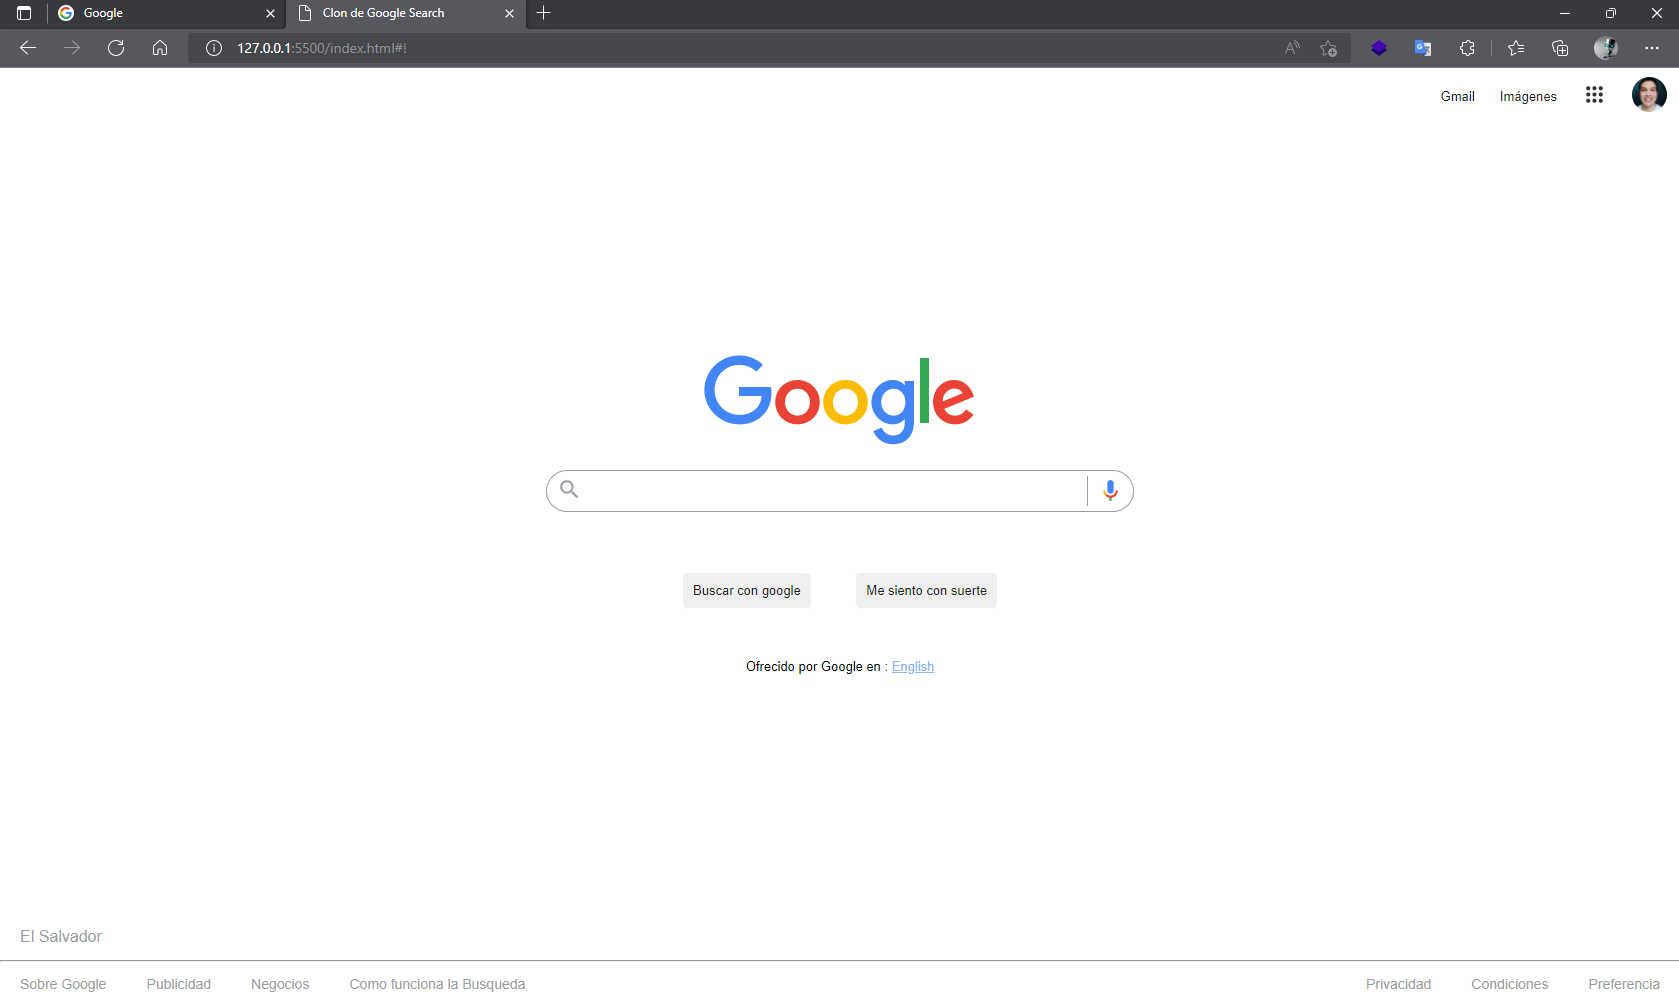
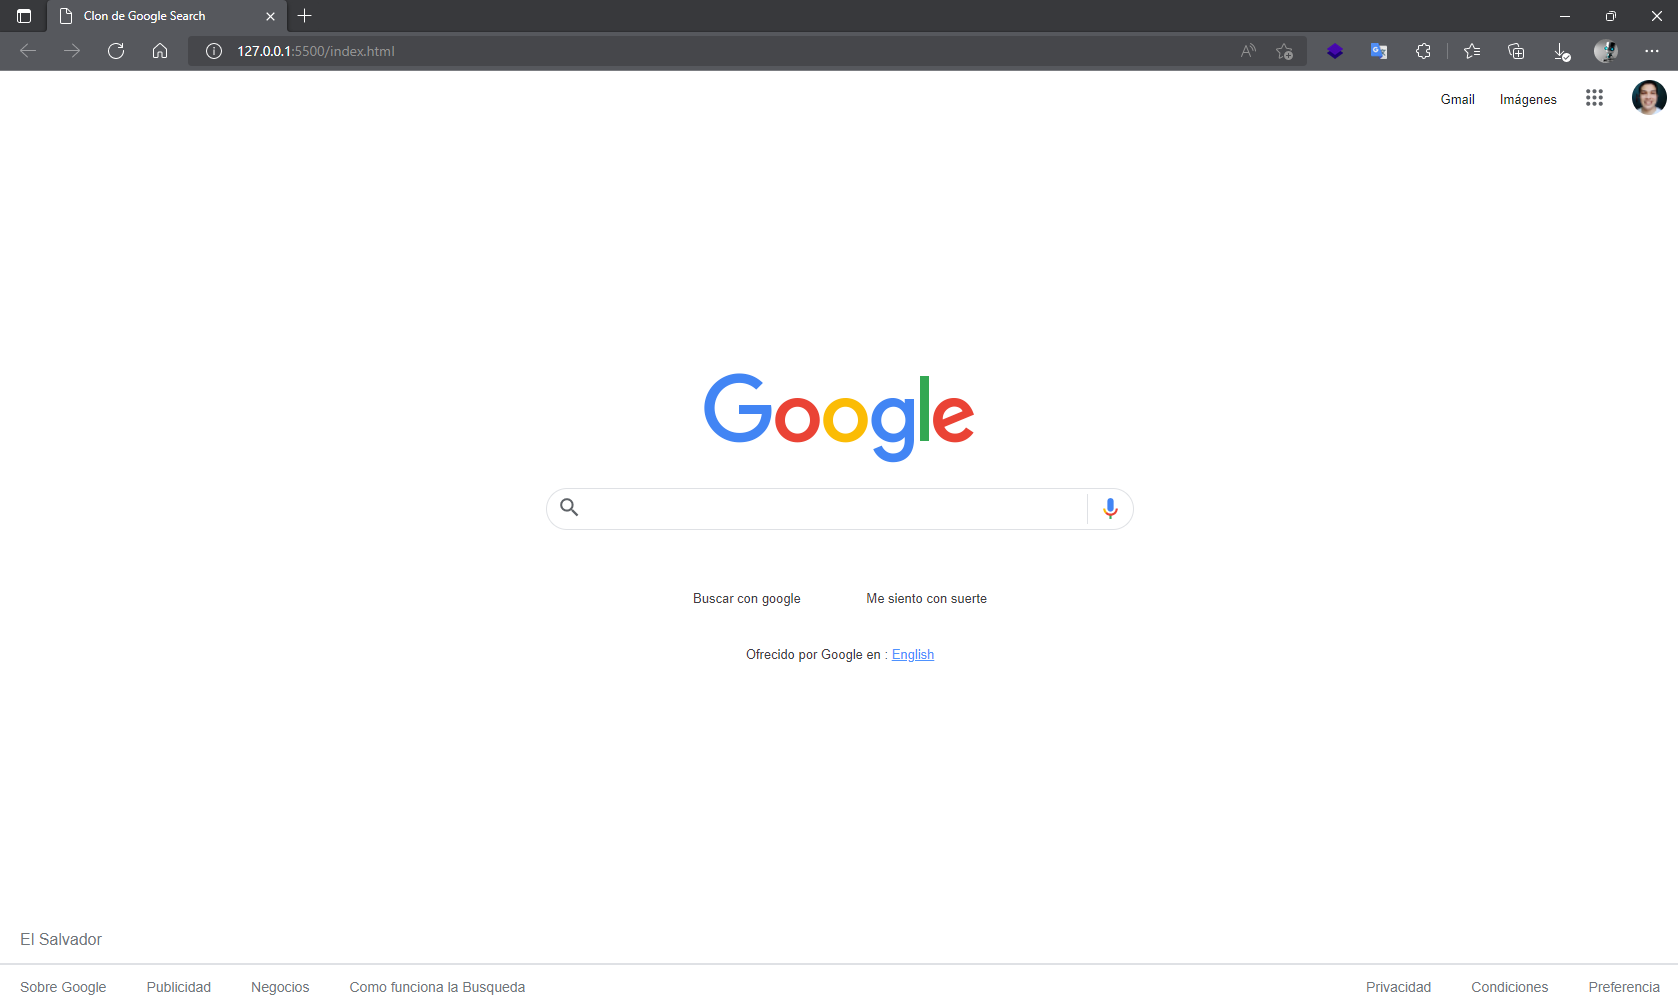
[ADD] se agrega la funcionalidad DarkMode

diff --git a/styles/style.css b/styles/style.css
@@ -1,17 +1,26 @@
 :root {
 
-  /* COLORS DARK MODE */
-  --background-dark: #202124;
-  --secondary-background-dark: #303134;
-  --color-text-light: #FFFFFF;
+  /* *********************** COLORS LIGHT MODE ************************* */
 
-  /* COLORS PERMANENT MODE */
-  --color-links: #8ab4f8;
-  --color-secondary: #999da2;
+  --background-color: #FFFFFF;
+  --background-color-footer: #FFFFFF;
+  --color-light: #FFFFFF;
+  --color-dark: #000000de;
 
-  /* COLORS LIGHT MODE */
-  --background-light: #FFFFFF;
-  --color-text-dark: #000000de;
+  --color-icon: #5f6368;
+  --color-text-footer: #70757a;
+  --color-text-content: #3c4043;
+  --color-border: #dfe1e5;
+  --color-links: #4e92ff;
+
+  /* ******************** COLORS DARK MODE **************** */
+
+  /* 
+    BG #202124
+    BTN #303134 AND HOVER INPUT
+
+    FOOTER #171717
+  */
 
 }
 
@@ -20,16 +29,18 @@
   margin: 0; padding: 0;
   font-size: 1.3rem;
 }
+
 html{
   font-size: 62.5%;
   font-family: Arial, Helvetica, sans-serif;
 }
 
-/* layout */
+body{ background-color: var(--background-color); }
+
+/* ******************** layout ******************************** */
 .layout{
   display: flex;
   width: 100vw;
-  /* border:1px solid #000000; */
 
 }
 .header-google{ height: 5vh; }
@@ -41,9 +52,14 @@ html{
   align-items: center;
  }
 
-.footer-google{ height: 10vh; flex-direction: column; justify-content: space-evenly; }
+.footer-google { 
+  height: 10vh; 
+  flex-direction: column; 
+  justify-content: space-evenly; 
+  background-color: var(--background-color-footer);
+}
 
-/* navbar google */
+/* ************************* navbar google ************************ */
 .navbar-google {
   display: flex;
   justify-content: end; 
@@ -62,18 +78,18 @@ html{
 
 .nav-item .nav-link {
   text-decoration: none;
-  color: var(--color-text-dark);
+  color: var(--color-dark);
 }
-.nav-item .nav-link--hover:hover{
-  text-decoration:underline;
-}
+
+.nav-item .nav-link--hover:hover{ text-decoration:underline; }
+
 .nav-item .nav-link > svg {
   width: 2.5rem;
   height: 2.5rem;
 }
-.icon-menu-path{
-  fill: var(--secondary-background-dark);
-}
+
+.icon-menu-path{ fill: var(--color-icon); }
+
 .nav-item .nav-link > img {
   width: 3.5rem;
   height: 3.5rem;
@@ -81,74 +97,84 @@ html{
   border-radius: 50%;
 }
 
-/* footer google */
+/* ************************** footer google ************************ */
 .footer-google .country-footer {
   font-size: 1.6rem;
   padding-left: 2rem;
-  color: var(--color-secondary);
+  color: var(--color-text-footer);
 }
-.footer-google .country-footer + hr{ color: var(--color-secondary);  }
+
+.footer-google .country-footer + hr{ border: 0.1rem solid var(--color-border);  }
 
 .navbar-footer .nav-list{
   list-style: none;
   display: flex;
   justify-content: space-between;
 }
+
 .navbar-footer .nav-list .nav-link-f{
-  color: var(--color-secondary);
+  color: var(--color-text-footer);
   text-decoration:none;
   font-size: 1.4rem;
 }
+
 .navbar-footer .nav-list .nav-link-f:hover { text-decoration: underline;}
 
-.navbar-footer .nav-list .info-footer, .preference-footer {
-  display: flex;
-}
+.navbar-footer .nav-list .info-footer, .preference-footer { display: flex; }
 
 .navbar-footer .nav-list .info-footer .nav-item, .preference-footer .nav-item{ padding: 0 2rem; }
 
-/* main content */
+/* *********************** main content *********************** */
 .search-google {
   display: flex;
   justify-content: space-between;
   align-items: center;
 
-  border: 0.1rem solid var(--color-secondary);
+  border: 0.1rem solid var(--color-border);
   border-radius: 2.5rem;
   width: 35%;
   padding: .5rem 1rem;
   margin: 2rem;
+
+  background-color: var(--background-color);
+
 }
 .search-google:hover {
-  border: 0.1rem solid var(--color-text-light);
-  box-shadow: 0 0 1.5rem var(--color-secondary);
+  border: 0.1rem solid var(--color-light);
+  box-shadow: 0 0.1rem 0.6rem  var(--color-icon);
 }
 
 .search-google .search-input {
   flex-grow: 1;
   font-size: 1.6rem;
   border:none;
-  border-right: 1px solid var(--color-secondary);
+  border-right: 0.1rem solid var(--color-border);
   padding: .6rem;
   margin: 0 1rem;
   outline: none;
+  color: var(--color-dark);
+  background-color: var(--background-color);
 }
 
 .search-google .icon { width: 2.5rem; }
-.search-google .icon-search { fill:var(--color-secondary) }
+.search-google .icon-search { fill:var(--color-icon) }
 
-.buttons-google {
-  text-align: center;
-}
+/* ******************** BUTTONS **************** */
+
+.buttons-google { text-align: center; }
+
+.buttons-google .lenguage-google { color: var(--color-text-content); }
 
 .buttons-google .btn{
   background-color: none;
   padding: 1rem;
-  margin: 3rem 2rem 5rem;
-  color: var(--color-text-dark);
-  border:0.1rem solid var(--color-text-light);
+  margin: 3rem 2rem 3rem;
+  color: var(--color-text-content);
+  border:0.1rem solid var(--color-light);
   border-radius: 0.5rem;
+
+  background-color: var(--background-color);
 }
-.buttons-google .btn:hover { border: 0.1rem solid var(--color-secondary) }
+.buttons-google .btn:hover { border: 0.1rem solid var(--color-border) }
 
 .buttons-google a { color: var(--color-links); }

diff --git a/js/main.js b/js/main.js
@@ -1,34 +1,85 @@
-const searchInput = document.getElementById('search-input');
-const btnSearch = document.getElementById('btn-search');
+// VARIABLE GLOBAL PARA USAR 'getElementById' DE FORMA ABREVIADA
+const id = document.getElementById.bind(document);
 
-function mostrarBusqueda(evento){
+/**
+ * DESARROLLO DE LA FUNCIONANLIDAD DE BUSQUEDA DEL CLON DE GOOGLE
+ */
+const searchInput = id("search-input");
+const btnSearch = id("btn-search");
 
+function mostrarBusqueda(evento) {
   evento.preventDefault();
 
-  if(evento.keyCode === 13 && searchInput.value.trim().length > 0){
+  if (evento.keyCode === 13 && searchInput.value.trim().length > 0) {
+    let busqueda = searchInput.value;
+    let url = `https://www.google.com/search?q=${busqueda}`;
 
-    let busqueda = searchInput.value
-    let url = `https://www.google.com/search?q=${busqueda}`
-
-    window.open(url, '_blank');
+    open(url, "_blank");
   }
-
 }
 
-function mostrarBusquedaClick(evento){
-
+function mostrarBusquedaClick(evento) {
   evento.preventDefault();
 
-  if(searchInput.value.trim().length > 0){
+  if (searchInput.value.trim().length > 0) {
+    let busqueda = searchInput.value;
+    let url = `https://www.google.com/search?q=${busqueda}`;
 
-    let busqueda = searchInput.value
-    let url = `https://www.google.com/search?q=${busqueda}`
-
-    window.open(url, '_blank');
+    open(url, "_blank");
   }
-
 }
 
+searchInput.addEventListener("keyup", mostrarBusqueda);
+btnSearch.addEventListener("click", mostrarBusquedaClick);
 
-searchInput.addEventListener('keyup', mostrarBusqueda)
-btnSearch.addEventListener('click', mostrarBusquedaClick)
+/**
+ * FUNCIONANLIDAD DE CAMBIO DE THEME DARK
+ */
+// let col = getComputedStyle( document.documentElement )
+
+let flat = true;
+id("theme").addEventListener("click", () => {
+
+  if (flat) {
+
+    id("logo-google").src = "../image/googlelogo_light_color_272x92.png";
+
+    document.documentElement.style.setProperty("--background-color", "#202124");
+    document.documentElement.style.setProperty(
+      "--background-color-footer",
+      "#171717"
+    );
+    document.documentElement.style.setProperty("--color-dark", "#FFFFFF");
+    document.documentElement.style.setProperty("--color-light", "#303134");
+    document.documentElement.style.setProperty("--color-icon", "#aaaaaa");
+    document.documentElement.style.setProperty(
+      "--color-text-content",
+      "#FFFFFF"
+    );
+    document.documentElement.style.setProperty("--color-border", "#303134");
+    flat = false
+
+  } else {
+
+
+    id("logo-google").src = "../image/googlelogo_color_272x92dp.png";
+
+    document.documentElement.style.setProperty("--background-color", "#FFFFFF");
+    document.documentElement.style.setProperty(
+      "--background-color-footer",
+      "#FFFFFF"
+    );
+    document.documentElement.style.setProperty("--color-dark", "#000000de");
+    document.documentElement.style.setProperty("--color-light", "#FFFFFF");
+    document.documentElement.style.setProperty("--color-icon", "#5f6368");
+    document.documentElement.style.setProperty(
+      "--color-text-content",
+      "#3c4043"
+    );
+    document.documentElement.style.setProperty("--color-border", "#dfe1e5");
+    flat = true
+
+  }
+
+
+});

diff --git a/index.html b/index.html
@@ -48,7 +48,7 @@
   <main class="container-google layout">
     <!-- logo de google -->
     <section class="logo-google">
-      <img src="./image/googlelogo_color_272x92dp.png" alt="logo de google color">
+      <img id="logo-google" src="./image/googlelogo_color_272x92dp.png" alt="logo de google color">
     </section>
 
     <!-- buscador de google -->
@@ -107,7 +107,7 @@
         <section class="preference-footer">
           <li class="nav-item"><a href="#!" class="nav-link-f">Privacidad</a></li>
           <li class="nav-item"><a href="#!" class="nav-link-f">Condiciones</a></li>
-          <li class="nav-item"><a href="#!" class="nav-link-f">Preferencia</a></li>
+          <li class="nav-item"><a href="#!" class="nav-link-f" id="theme">Preferencia</a></li>
         </section>
       </ul>
     </nav>

diff --git a/README.md b/README.md
@@ -4,16 +4,29 @@ En este proyecto realizo la maquetacion de la pagina del buscador de google, apl
 
 Este es una primera version del mismo, ya que pienzo irle agregando modificaciones usando JavaScript, para agregar mayor interactividad al sitio.
 
+> Se agrega funcionalidad del buscador, ya funciona con JavaScript
+
+> Se agrega funcionalidad del Dark Mode
+
+  No se realiza al 100% de detalle ya que mi forma de realizar el Dark Mode fue usando variables CSS (CustomProperties) con lo cual solo modifique las variables, sin tocar nada mas que en este caso la imagen del logo.
+
 # Forma de ver/usar
 
 1. Solo debe de descargar el archivo .zip 
 2. descomprimirlo busque el archivo html `index.html`.
 3. Doble click en `index.html`.
 4. se desplegara la pagina, clon del buscador de google
+5. Escriba en el buscador de google lo que desea
+6. De enter o presione el boton 'Buscar con google'
+7. En la seccion del footer puedes clickear en el enlace 'Preferencia' y cambiara al DarkMode
 
 ![](./image/clon-google.png)
+
+![](./image/clon-google-dark.png)
+
 
 # Tecnologias usadas
 
 - HTML
 - CSS
+- javaScript
